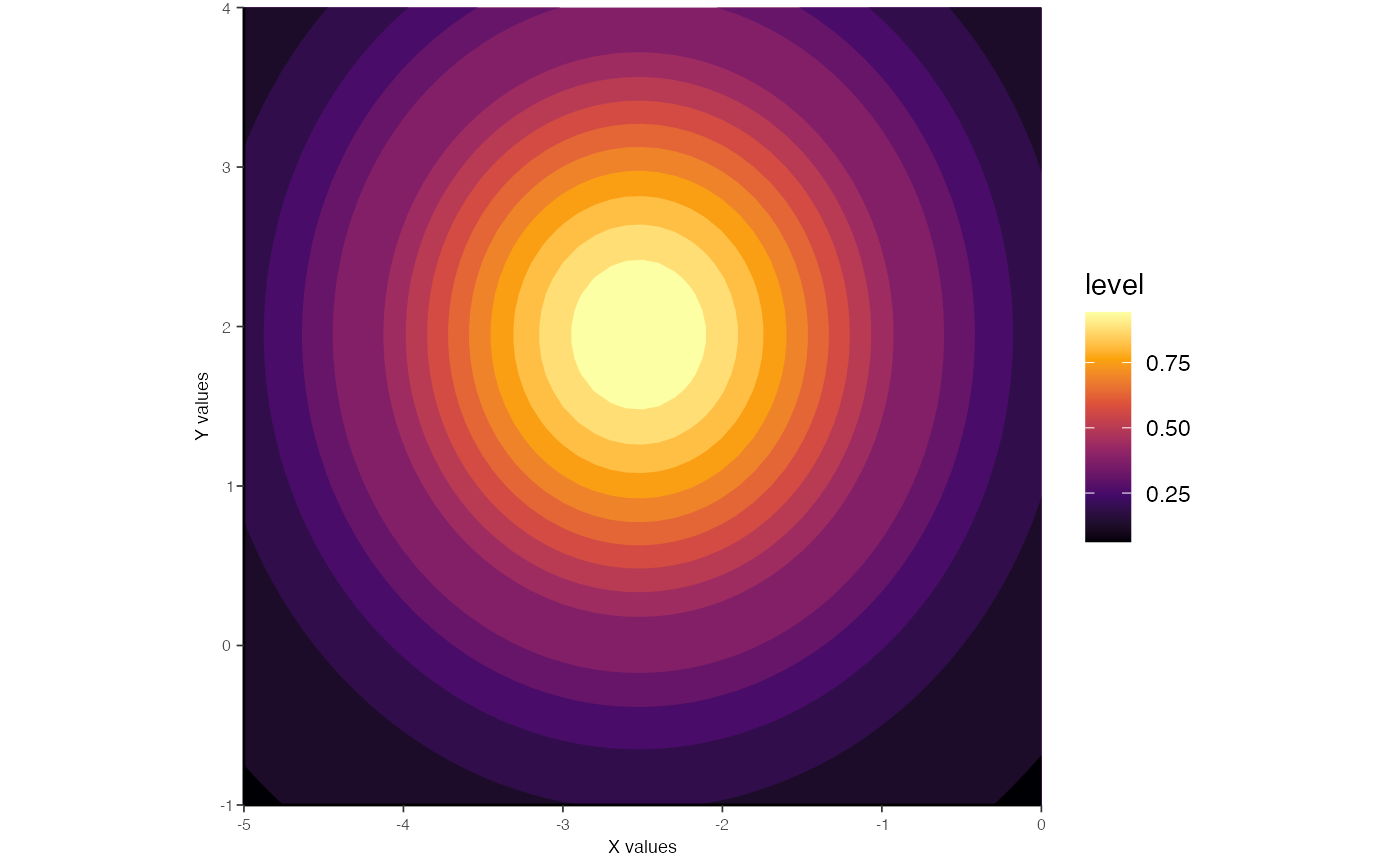
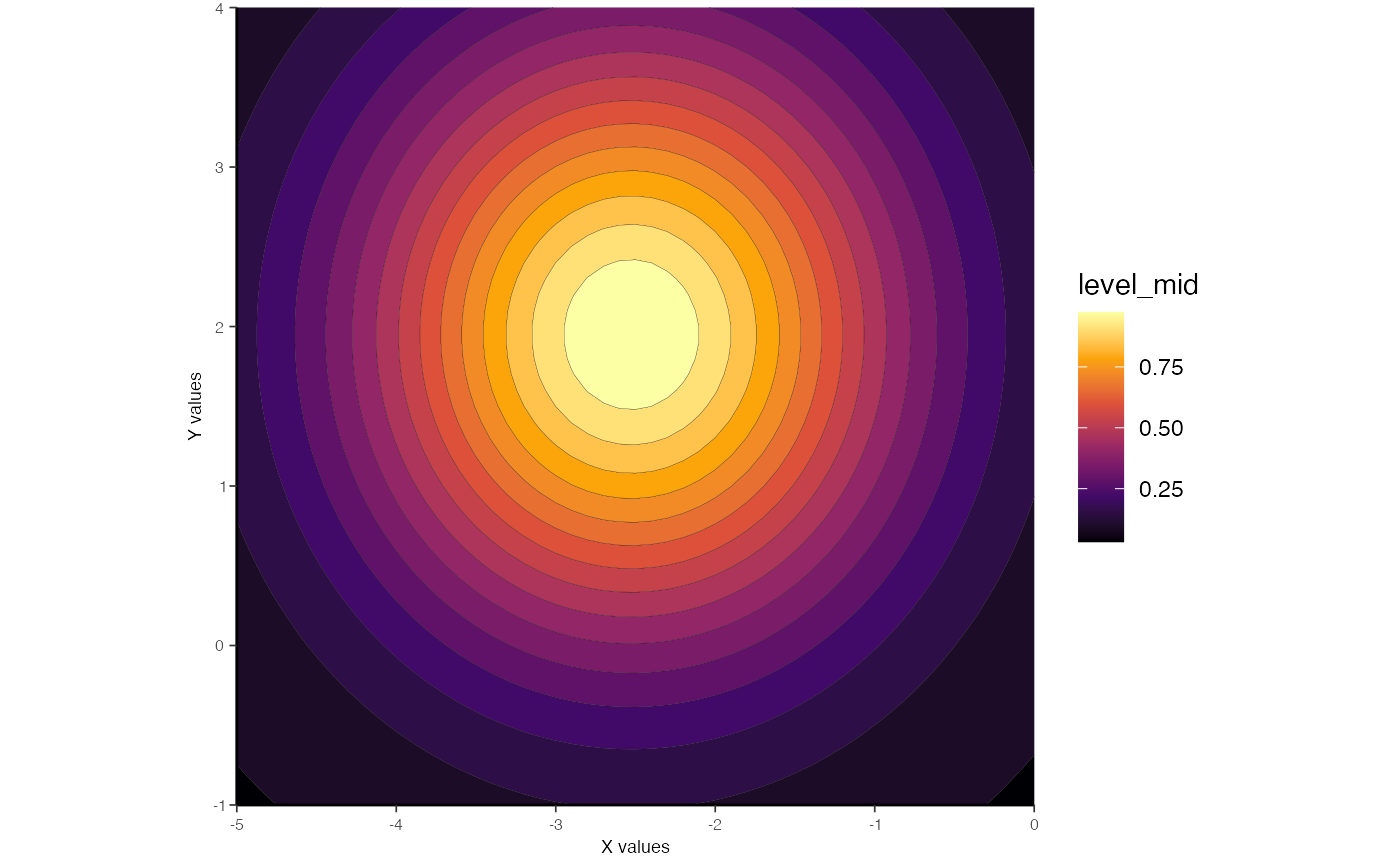
bug fix ggplot_gaussian_2D()
not sure why, but aes(fill = ..level..) now fails?

diff --git a/docs/articles/fit_gaussian_2D.html b/docs/articles/fit_gaussian_2D.html
@@ -102,6 +102,7 @@
 <p>We’ll begin by loading <code>gaussplotR</code> and loading the sample data set provided within. The raw data we’d like to use are in columns 1:3, so we’ll shave the data set down to those columns before running through the examples.</p>
 <div class="sourceCode" id="cb1"><pre class="downlit">
 <span class="kw"><a href="https://rdrr.io/r/base/library.html">library</a></span><span class="op">(</span><span class="va"><a href="https://github.com/vbaliga/gaussplotR">gaussplotR</a></span><span class="op">)</span>
+
 <span class="co">## We'll also use lattice, ggplot2 and metR</span>
 <span class="kw"><a href="https://rdrr.io/r/base/library.html">library</a></span><span class="op">(</span><span class="va"><a href="http://lattice.r-forge.r-project.org/">lattice</a></span><span class="op">)</span>; <span class="kw"><a href="https://rdrr.io/r/base/library.html">library</a></span><span class="op">(</span><span class="va"><a href="http://ggplot2.tidyverse.org">ggplot2</a></span><span class="op">)</span>; <span class="kw"><a href="https://rdrr.io/r/base/library.html">library</a></span><span class="op">(</span><span class="va"><a href="https://github.com/eliocamp/metR">metR</a></span><span class="op">)</span>
 

diff --git a/docs/reference/ggplot_gaussian_2D.html b/docs/reference/ggplot_gaussian_2D.html
@@ -138,6 +138,7 @@
   <span class='va'>gauss_data</span>,
   normalize <span class='op'>=</span> <span class='cn'>TRUE</span>,
   contour_thickness <span class='op'>=</span> <span class='fl'>0.04</span>,
+  contour_color <span class='op'>=</span> <span class='st'>"black"</span>,
   bins <span class='op'>=</span> <span class='fl'>15</span>,
   viridis_dir <span class='op'>=</span> <span class='fl'>1</span>,
   viridis_opt <span class='op'>=</span> <span class='st'>"B"</span>,
@@ -165,6 +166,10 @@ to 1 scale?</p></td>
     <tr>
       <th>contour_thickness</th>
       <td><p>Thickness of contour lines</p></td>
+    </tr>
+    <tr>
+      <th>contour_color</th>
+      <td><p>Color of the contour lines</p></td>
     </tr>
     <tr>
       <th>bins</th>
